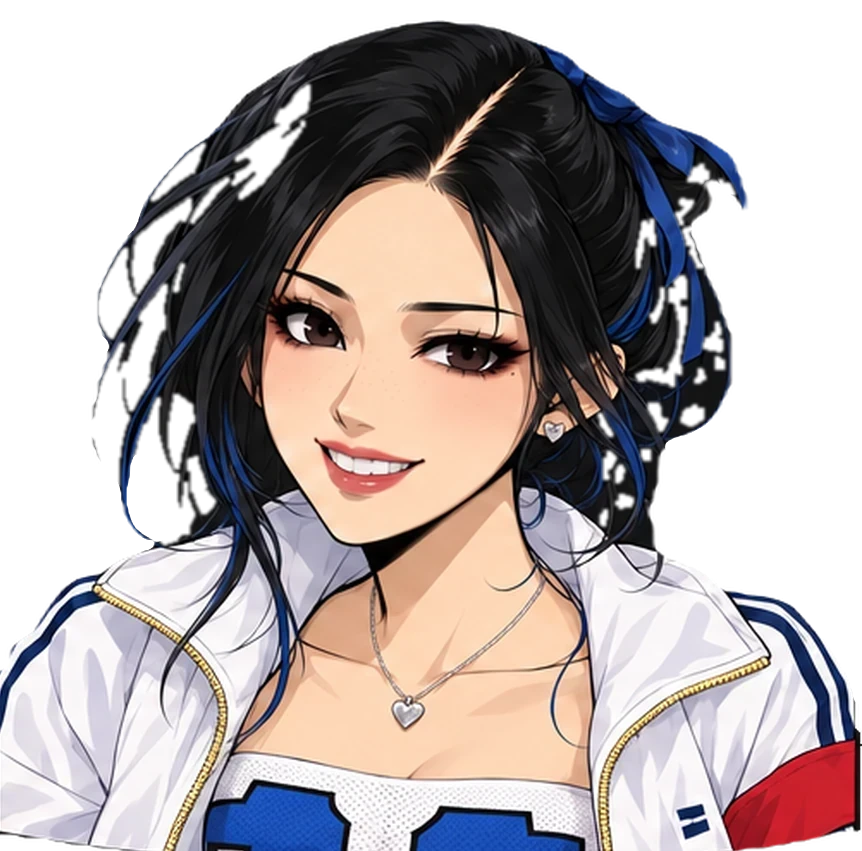
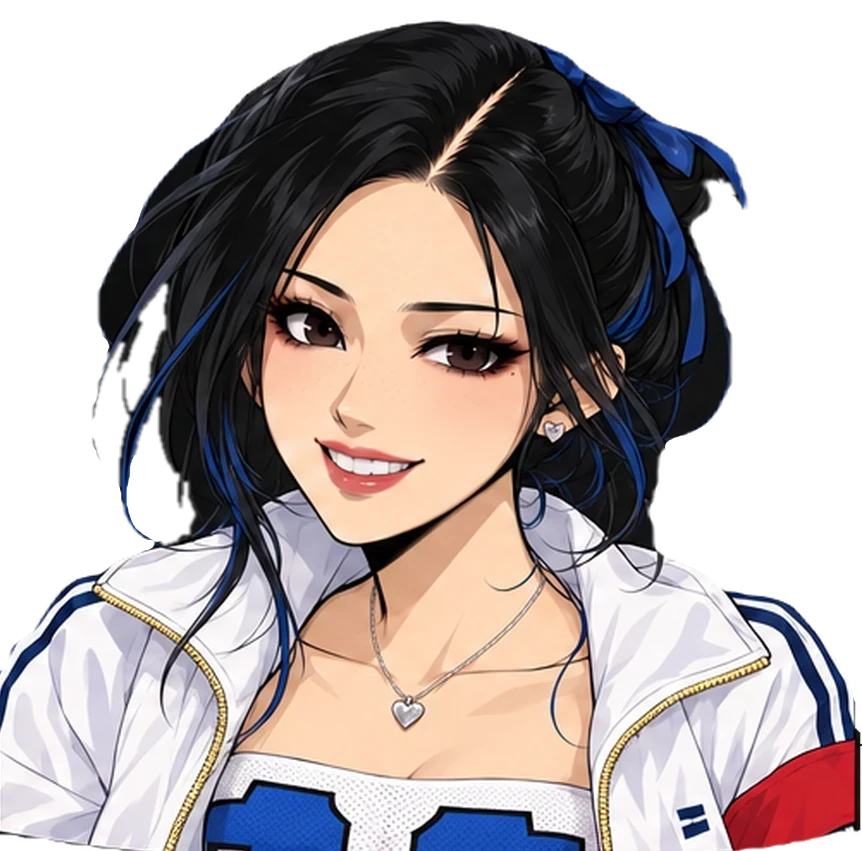
FEMC: Summer Session portraits keep pockets walled in by strands (Kat spotted a hole in her hair)

diff --git a/assets/femc/game/cosmetics.js b/assets/femc/game/cosmetics.js
@@ -327,8 +327,8 @@ window.FemcCosmetics = (() => {
     const x = onIn(`skin:${id}`); if (!x) return null;
     const have = ((readyArt().skins || {})[x.id]?.portraits || {})[id] || [];
     const f = [face, face && face.replace(/-\d+$/, ''), 'neutral', have[0]].find(k => k && have.includes(k));
-    // ?v= bumps when a cut is redone (4: Summer Session's strand gaps, after the 3rd recut of five outfits, 2026-10-30).
-    return f ? `${G.base}${skinDir(x.id)}portraits/${id}/${f}.webp?v=4` : null;
+    // ?v= bumps when a cut is redone (5: Summer Session's strand gaps, holes inside the hair kept, after the 3rd recut of five outfits, 2026-10-30).
+    return f ? `${G.base}${skinDir(x.id)}portraits/${id}/${f}.webp?v=5` : null;
   }
   // The Equipment tab's picture for a fighter's weapon slot (a path from the site root, like a gear's `art`).
   function weaponArt(who) { const x = onIn(`weapon:${who}`); return x ? `${skinDir(x.id)}weapon.webp` : null; }

diff --git a/femc-game.html b/femc-game.html
@@ -148,7 +148,7 @@
   <script src="assets/femc/game/menu.js?v=27"></script>
   <script src="assets/femc/game/art/ready.js?v=15"></script>
   <script src="assets/femc/game/gacha.js?v=13"></script>
-  <script src="assets/femc/game/cosmetics.js?v=20"></script>
+  <script src="assets/femc/game/cosmetics.js?v=21"></script>
   <script src="assets/femc/game/echoes-ui.js?v=1"></script>
   <script src="assets/femc/game/requests.js?v=2"></script>
   <script src="assets/femc/game/stamps.js?v=4"></script>
